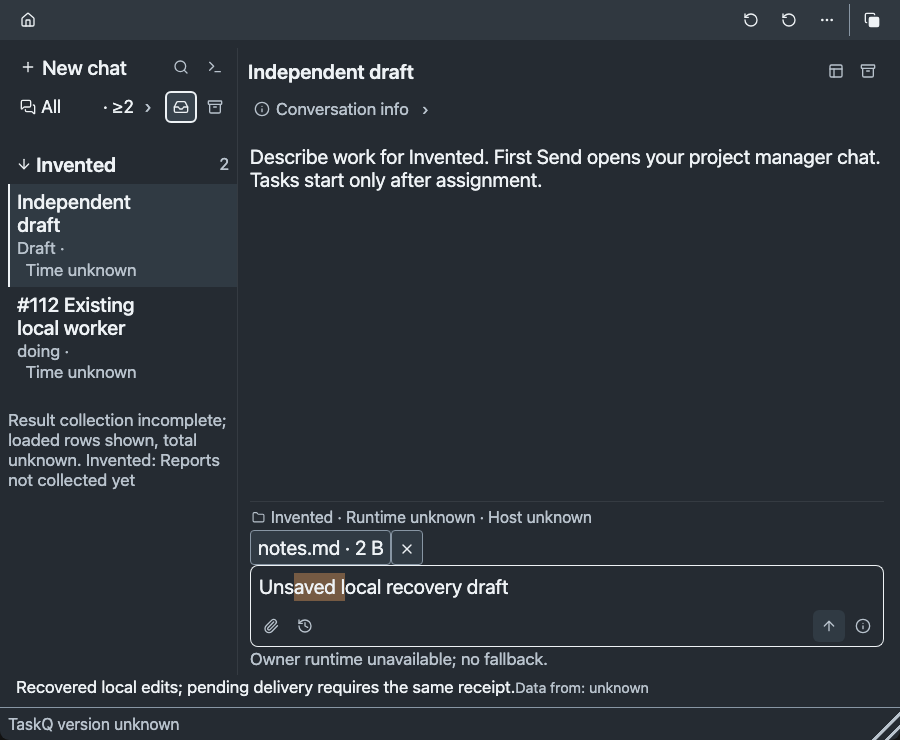
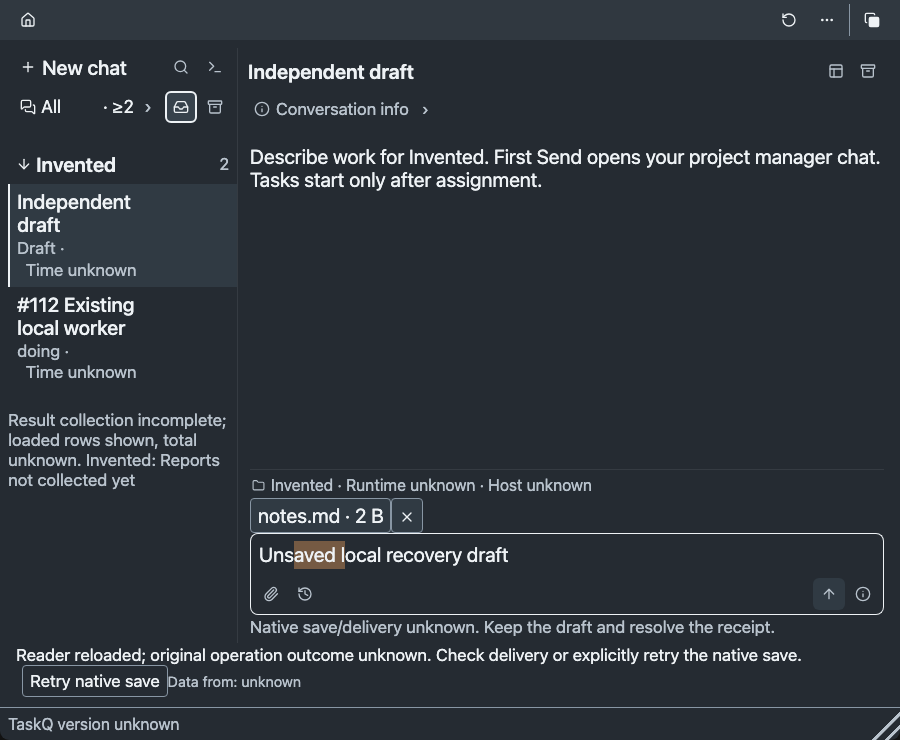
fix(conversations): keep interrupted recovery work inert
Preserve the original pending operation ID before submission. Recovery restores unknown state and requires explicit reconciliation instead of dispatching queued storage work. Strengthen no-replay protection to include every conversation action.

Task: https://github.com/taskqorg/taskq/issues/2140

Changed region(s): [[0.0, 0.6527, 0.9022, 0.9635], [0.9333, 0.8081, 0.9644, 0.8392]]

diff --git a/src/conversations.js b/src/conversations.js
@@ -377,6 +377,7 @@ module.exports=execution.module('conversations',{
     const op=queue.shift(),c=items.find(c=>c.id===op.conversation);if(!c||!api.editable(c)&&!['archive','restore'].includes(op.action)){api.next();return;}
     if(op.action!=='save')api.note('',op.conversation);
     pending={...op,id:api.id(),revision:c.revision||0,version:c.version||0};
+    checkpoint();
     ui.send({a:op.action==='window'?'conversation-window':'conversation-action',...pending});
     ui.cancel(timer);timer=ui.defer(()=>{if(pending){if(pending.action==='reply'){const c=items.find(c=>c.id===pending.conversation);if(c)c.reply={id:pending.id};}failure={...pending,reason:'Native receipt missing; refresh or retry saving. Submitted requests must use Check delivery.'};pending=null;api.note(failure.reason,failure.conversation);draw();}},30000);
    },
@@ -734,10 +735,13 @@ module.exports=execution.module('conversations',{
     if(changed&&identity&&focuses[identity]&&!focusDraft){const f=focuses[identity],target=[...detail.parentElement.querySelectorAll(f.tag)].filter(n=>JSON.stringify(n.dataset)===f.key)[f.index];if(target?.checkVisibility()&&!target.disabled)target.focus({preventScroll:true});}
     if(log&&open){if(api.trim(detail))draw();else api.edge(detail);}},
    bounds:function(){const resident=live||view;return {listRows:menu.querySelectorAll('.conversation-row').length,indexRows:items.length+sidebarItems.filter(r=>r.thread).length,queryKeys:resultPages.size,nativeRecords:(view?.items.length||0)+(live?.items.length||0),nativeBytes:[...(view?.items||[]),...(live?.items||[])].reduce((n,i)=>n+api.bytes(i),0),anchor:resident?.anchor||null,bodySources:bodyCache.size,bodyBytes:[...bodyCache.keys()].reduce((n,id)=>{const c=items.find(c=>c.id===id);return n+(c?new TextEncoder().encode(JSON.stringify(api.local(c))+JSON.stringify(c.sent||'')).length:0);},0),closedSources:closedViews.size,historyKeys:historyViews.size,historyRecords:[...historyViews.values()].reduce((n,v)=>n+(v.rows?.length||0),0),historyBytes:[...historyViews.values()].reduce((n,v)=>n+new TextEncoder().encode(JSON.stringify(v.rows||[])).length,0),textPages:textPages.size,bodyReads:bodyReads.size,taskBodies:taskBodies.size,taskBytes:[...taskBodies.values()].reduce((n,v)=>n+v.bytes,0),taskReads:taskReads.size,linkedRows:linked?.total||0,linkedKnown:linked?.known.size||0,linkedChecked:linked?.checked.size||0};},
-   recovery:function(){return {drafts:items.filter(c=>!c.lazy&&(c.saved??0)!==(c.version??0)).map(c=>({id:c.id,revision:c.revision,...api.local(c),files:c.files,sentRevision:c.sent?.revision})),localQueue:queue.filter(o=>['save','attach','remove'].includes(o.action)),context:{selected,list,selection,scrolls,positions,focuses,opened,listOnly,search,filter:resultFilter}};},
+   recovery:function(){return {drafts:items.filter(c=>!c.lazy&&(c.saved??0)!==(c.version??0)).map(c=>({id:c.id,revision:c.revision,...api.local(c),files:c.files,sentRevision:c.sent?.revision})),pending:pending||failure,localQueue:queue.filter(o=>['save','attach','remove'].includes(o.action)),context:{selected,list,selection,scrolls,positions,focuses,opened,listOnly,search,filter:resultFilter}};},
    restoreRecovery:function(r){
     for(const draft of r?.drafts||[]){const c=items.find(c=>c.id===draft.id);if(!c||c.deleted){api.note('Recovered draft source unavailable; saved source retained.','list');continue;}const mismatch=c.sent?.revision!==draft.sentRevision;Object.assign(c,api.local(draft),{files:draft.files,lazy:false,version:1,saved:0});c.recoveryReason=mismatch?'Recovered draft source changed; text/files retained. Use New from draft or inspect the source.':null;api.note(c.recoveryReason||'Recovered local edits; pending delivery requires the same receipt.',c.id);}
-    queue.push(...(r?.localQueue||[]).filter(o=>['save','attach','remove'].includes(o.action)));api.next();
+    queue=(r?.localQueue||[]).filter(o=>['save','attach','remove'].includes(o.action));
+    const interrupted=r?.pending||queue.shift();
+    if(interrupted){failure={...interrupted,reason:'Reader reloaded; original operation outcome unknown. Check delivery or explicitly retry the native save.'};const c=items.find(c=>c.id===interrupted.conversation);if(c&&interrupted.action==='reply')c.reply={id:interrupted.id};api.note(failure.reason,interrupted.conversation);}
+
     if(r?.context){const c=r.context;({selected,list,selection,scrolls,positions,focuses,opened,listOnly,search}=c);resultFilter=c.filter;focusDraft=!!api.current();onSelect?.(selected);}
    },
    recoverable:function(){return !pending&&!queue.length&&!items.some(c=>!c.lazy&&(c.saved??0)!==(c.version??0));},

diff --git a/docs/design/evidence/2140/report.md b/docs/design/evidence/2140/report.md
@@ -18,7 +18,7 @@ The workspace also lacked forwarding for its existing `completed` reader operati
 
 Native reload recreates only the targeted Conversations WebView in its existing window. A generation stamp from the native closure fences retired IPC, read replies and evaluation callbacks. Main and detached readers retain their identities; reopening a faulted reader recreates it, while healthy Close hides it. Native title/drag/close/enlarge replace duplicate custom framing; navigation, Always on top, resize and task features remain.
 
-The native process retains a bounded recovery checkpoint across reader recreation: dirty local draft text/files/caret, local-only queued storage work, exact selection, reading anchors and focus. Sends, answers, watches, admissions and report decisions are excluded from replay. Existing native stores retain their immutable receipts; unknown operations require explicit same-ID Check delivery. Source changes keep recovered text/files explicit and block Send. Ordinary saves still own durable restart recovery; failed storage is never claimed durable. Total recovery checkpoints are limited to 32 MiB; overflow is explicit and refuses reload rather than discarding current edits.
+The native process retains a bounded recovery checkpoint across reader recreation: dirty local draft text/files/caret, inert local-only queued storage work, original pending operation identity, exact selection, reading anchors and focus. Recovery does not dispatch any conversation action, including local storage changes. The interrupted operation remains unknown under its original ID until explicit reconciliation/retry. Sends, answers, watches, admissions and report decisions are excluded from replay. Existing native stores retain their immutable receipts; unknown operations require explicit same-ID Check delivery. Source changes keep recovered text/files explicit and block Send. Ordinary saves still own durable restart recovery; failed storage is never claimed durable. Total recovery checkpoints are limited to 32 MiB; overflow is explicit and refuses reload rather than discarding current edits.
 
 Worker text uses the existing bounded transcript renderer as a document, without an outer reader disclosure. Recorded questions retain their source card, evidence, read-only numbered choices and answer order, with consistent author/time spacing. Missing authors/times remain explicit. Historical question content no longer floats a linked task heading into its history. Current questions/actions stay primary; one Earlier history disclosure retains old events/questions and grouped tools retain their inspectors. No adapters, counts, icons, semantic colors, compact-time rules or source paging budgets change.
 
@@ -48,3 +48,9 @@ Earlier #2110 measurements remain failures: 10k interaction p95 134.5 ms against
 - [Recorded question document](question-history.png): existing question renderer, author/time and read-only choices beneath the current task context.
 
 Latest mixed-fixture run retained functional bounds but failed the 100 ms interaction budget: 600/10k p95 382.4/307.2 ms; projection 178.2/148.9 ms, mount 439/1707 ms. It overlapped browser recovery and native compilation on this Mac; load was present, but causality is not established. These are failures, not a qualified performance pass. Fifty-tour engine plateau remains unqualified.
+
+## Exact-source review correction
+
+Independent Codex review of `cc88367e2c4ee3549dc4095413a69d1e3249405f` found P1: recovery omitted `pending` and immediately submitted recovered local save/attach/remove work with new IDs. The strengthened actual-bundle check fails before because the checkpoint omits the original pending save ID. The fix checkpoints the immutable pending request before submission, restores it as unknown, keeps recovered local work inert, and forbids every automatic `conversation-action` during recreation. The same 16-cell/three-fault matrix passes after. Existing same-ID delivery checks remain explicit.
+
+The first canonical run selected full checks after the one rebase. It stopped sandbox-blocked: 832 Rust units passed, 7 protected-app-server cases failed with `PermissionDenied: Operation not permitted`, 40 ignored; 490.195 s / 900 s. Those Rust sources are unchanged by the review's JS-only fix. No sandbox-blocked test is a PASS. The unrun remainder is checked separately on the final source; the whole gate remains sandbox-blocked. The pinned contract lint was unavailable in the trimmed local rule cache; the same lint from verified specq `39e6024037fb69e68a84180c04fb7ac53eddb9f9` was fetched read-only and passes separately: 54,486 bytes, 274 lines, 0 errors, headroom warnings retained.
